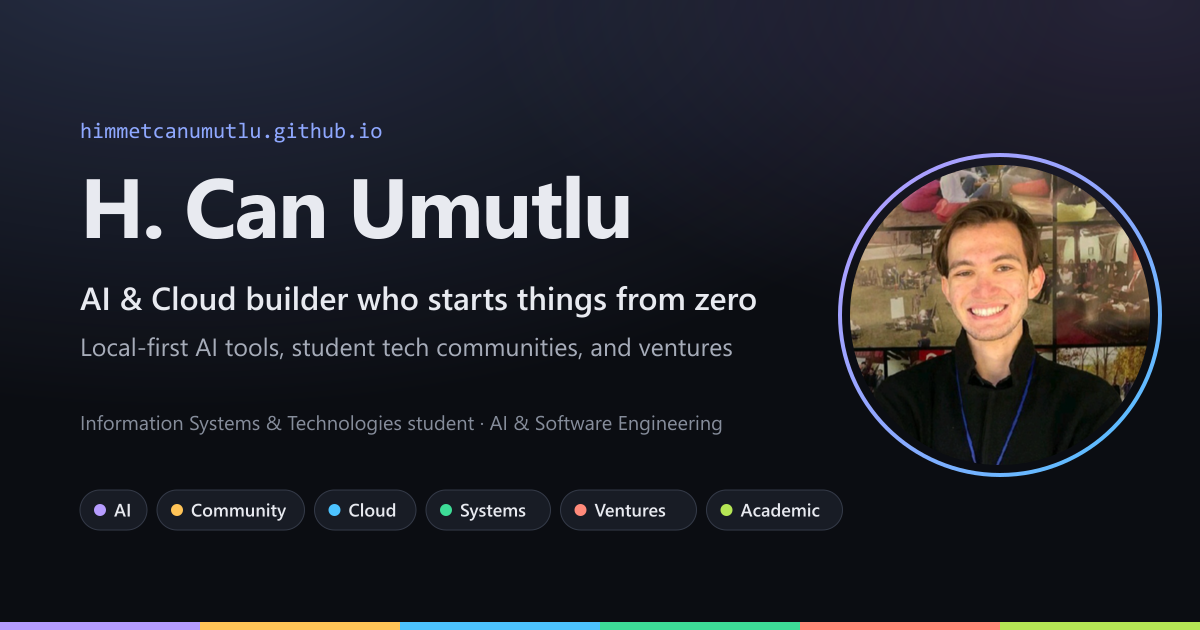
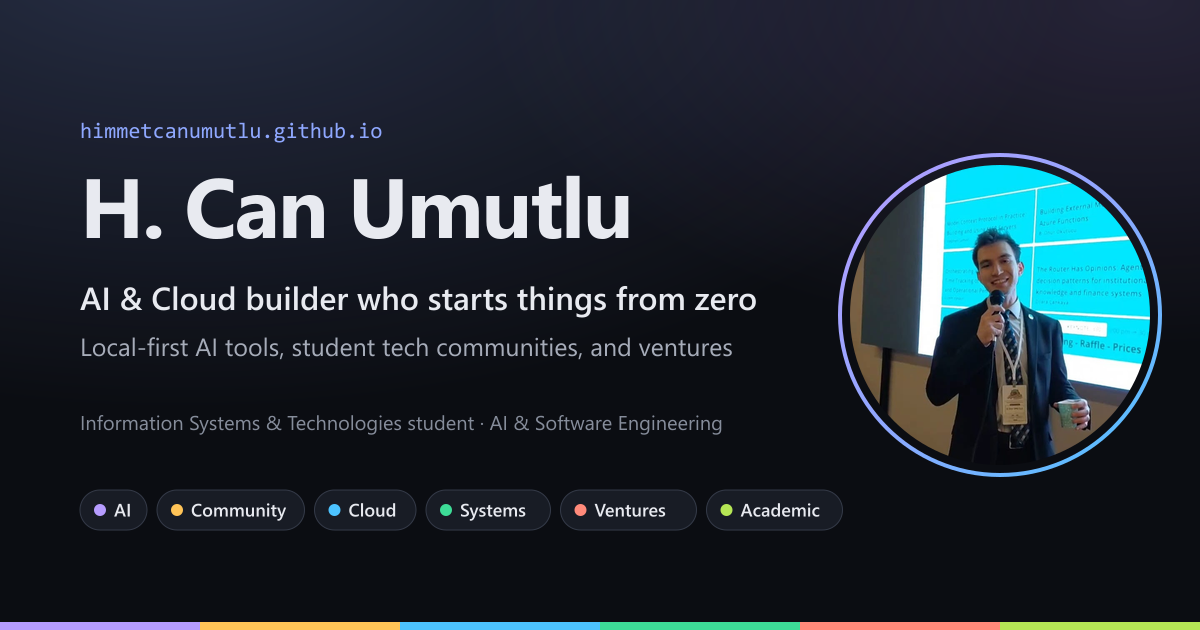
feat: add YouTube talks to Media and use the channel photo as headshot
- headshot, touch icon and OG card regenerated from the 720px YouTube
  channel photo
- Media lists both AWS Cloud talk videos with local thumbnails, lengths
  and a Turkish-language note; fetch-assets pulls the thumbnails
- videos are searchable in the command palette under Media
- hero gains GitHub, LinkedIn and YouTube profile links

Changed region(s): [[0.7092, 0.2413, 0.9558, 0.7238]]

diff --git a/scripts/fetch-assets.ts b/scripts/fetch-assets.ts
@@ -13,6 +13,7 @@
  *  - event covers: any photo dropped at assets-src/events/<event-id>.{jpg,jpeg,png,webp}
  *    is cropped to 3:2; portrait shots are letterboxed over a blurred copy of
  *    themselves instead of losing most of the frame (assets-src/ is git-ignored)
+ *  - video thumbnails: the YouTube thumbnail of every media item that declares one
  *
  * This is run by hand; nothing in CI calls it.
  */
@@ -23,6 +24,7 @@ import { fileURLToPath } from 'node:url'
 import sharp from 'sharp'
 import { domains } from '../src/data/domains'
 import { events } from '../src/data/events'
+import { media } from '../src/data/media'
 import { profile } from '../src/data/profile'
 import { SITE_URL } from '../src/data/site'
 
@@ -265,12 +267,48 @@ const writeEventCovers = async () => {
   }
 }
 
+// ── Video thumbnails ─────────────────────────────────────────────────
+const youtubeId = (href: string): string | null => {
+  const url = new URL(href)
+  if (url.hostname === 'youtu.be') return url.pathname.slice(1) || null
+  return url.searchParams.get('v')
+}
+
+const writeVideoThumbnails = async () => {
+  for (const item of media) {
+    if (!item.thumbnail) continue
+    const { src, width = 640, height = 360 } = item.thumbnail
+    if (!shouldWrite(src)) continue
+    const id = youtubeId(item.href)
+    if (!id) {
+      results.push({ path: src, status: 'missing', note: 'not a YouTube video link' })
+      continue
+    }
+    try {
+      let source: Buffer
+      try {
+        source = await download(`https://i.ytimg.com/vi/${id}/maxresdefault.jpg`)
+      } catch {
+        source = await download(`https://i.ytimg.com/vi/${id}/hqdefault.jpg`)
+      }
+      const image = await sharp(source)
+        .resize(width, height, { fit: 'cover' })
+        .jpeg({ quality: 80, mozjpeg: true, progressive: true })
+        .toBuffer()
+      await save(src, image)
+    } catch (error) {
+      results.push({ path: src, status: 'missing', note: (error as Error).message })
+    }
+  }
+}
+
 // ── Run ──────────────────────────────────────────────────────────────
 const avatar = await loadHeadshotSource()
 await writeHeadshots(avatar)
 await writeLogos()
 await writeOgImage(avatar)
 await writeEventCovers()
+await writeVideoThumbnails()
 
 if (!existsSync(out(profile.cv.href))) {
   results.push({ path: profile.cv.href, status: 'missing', note: 'add your CV manually' })

diff --git a/src/components/media/MediaWriting.tsx b/src/components/media/MediaWriting.tsx
@@ -11,7 +11,11 @@ const typeLabel: Record<MediaItem['type'], string> = {
   channel: 'Channel',
   writing: 'Writing',
   post: 'Post',
+  video: 'Video',
 }
+
+const metaLine = (item: MediaItem): string =>
+  `${typeLabel[item.type]} · ${item.outlet} · ${item.when}${item.lang === 'tr' ? ' · in Turkish' : ''}`
 
 const iconFor = (item: MediaItem): 'youtube' | 'linkedin' | 'external' =>
   item.outlet === 'YouTube' ? 'youtube' : item.outlet === 'LinkedIn' ? 'linkedin' : 'external'
@@ -27,9 +31,7 @@ export default function MediaWriting() {
               <article class="card card--interactive media-card" data-d={domainAttr(item.domains)} data-domain={item.domains[0]}>
                 <p class="media-card__meta">
                   <Icon name={iconFor(item)} />
-                  <span>
-                    {`${typeLabel[item.type]} · ${item.outlet} · ${item.when}`}
-                  </span>
+                  <span>{metaLine(item)}</span>
                 </p>
                 <h3 class="card__title">
                   <a class="stretched-link" href={item.href} target="_blank" rel="noopener noreferrer">
@@ -37,6 +39,20 @@ export default function MediaWriting() {
                   </a>
                 </h3>
                 <p class="card__body">{item.summary}</p>
+                {/* Rendered last so list bindings stay stable; CSS moves it to the top. */}
+                {item.thumbnail ? (
+                  <img
+                    class="media-card__thumb"
+                    src={item.thumbnail.src}
+                    alt={item.thumbnail.alt}
+                    width={item.thumbnail.width}
+                    height={item.thumbnail.height}
+                    loading="lazy"
+                    decoding="async"
+                  />
+                ) : (
+                  ''
+                )}
               </article>
             </li>
           ))}

diff --git a/src/data/media.ts b/src/data/media.ts
@@ -6,10 +6,46 @@ export const media: MediaItem[] = [
     type: 'channel',
     title: 'H. Can Umutlu on YouTube',
     outlet: 'YouTube',
-    summary: 'Videos on technology, software and what I am building.',
+    summary: 'Recorded talks on cloud computing and what I am building. “In Tech We Trust!”',
     href: 'https://www.youtube.com/@hcanumutlu',
     when: 'Ongoing',
-    domains: ['community'],
+    domains: ['community', 'cloud'],
+  },
+  {
+    id: 'yt-aws-cloud-1',
+    type: 'video',
+    title: 'AWS Cloud talk, part 1: hybrid cloud',
+    outlet: 'YouTube',
+    summary:
+      'Cloud fundamentals for students: private, public and hybrid cloud architectures and how they integrate, with e-commerce and Turkish Airlines examples.',
+    href: 'https://www.youtube.com/watch?v=WT8BuF04YHo',
+    when: 'Dec 2024 · 13 min',
+    domains: ['cloud', 'community'],
+    lang: 'tr',
+    thumbnail: {
+      src: '/assets/media/yt-aws-cloud-1.jpg',
+      alt: 'Presenting a slide on hybrid cloud structures and integration',
+      width: 640,
+      height: 360,
+    },
+  },
+  {
+    id: 'yt-aws-cloud-2',
+    type: 'video',
+    title: 'AWS Cloud talk, part 2: inside the AWS console',
+    outlet: 'YouTube',
+    summary:
+      'A live walkthrough of the AWS Management Console, comparing Amazon S3 storage classes from Standard to Glacier Deep Archive.',
+    href: 'https://www.youtube.com/watch?v=cY1KGaGL5yg',
+    when: 'Dec 2024 · 17 min',
+    domains: ['cloud', 'community'],
+    lang: 'tr',
+    thumbnail: {
+      src: '/assets/media/yt-aws-cloud-2.jpg',
+      alt: 'Walking through the Amazon S3 storage classes in the AWS console',
+      width: 640,
+      height: 360,
+    },
   },
   {
     id: 'siber-otag',

diff --git a/src/data/commands.ts b/src/data/commands.ts
@@ -1,4 +1,5 @@
 import { domains } from './domains'
+import { media } from './media'
 import { profile } from './profile'
 import { includedProjects } from './selectors'
 import { sections } from './site'
@@ -23,6 +24,17 @@ const projectCommands: Command[] = includedProjects.map(project => ({
   keywords: [project.title, project.slug, ...project.stack, ...(project.context ? [project.context] : [])],
   action: { type: 'project', slug: project.slug },
 }))
+
+const mediaCommands: Command[] = media
+  .filter(item => item.type === 'video')
+  .map(item => ({
+    id: `media:${item.id}`,
+    group: 'Media',
+    label: `Watch: ${item.title}`,
+    hint: item.summary,
+    keywords: [item.title, item.outlet, 'video', 'talk', 'youtube', ...item.domains],
+    action: { type: 'open', href: item.href },
+  }))
 
 const domainCommands: Command[] = domains.map(domain => ({
   id: `domain:${domain.id}`,
@@ -77,6 +89,7 @@ const linkCommands: Command[] = [profile.links.github, profile.links.linkedin, p
 export const commands: Command[] = [
   ...sectionCommands,
   ...projectCommands,
+  ...mediaCommands,
   ...domainCommands,
   ...actionCommands,
   ...linkCommands,

diff --git a/src/components/hero/Hero.tsx b/src/components/hero/Hero.tsx
@@ -5,6 +5,8 @@ import Tag from '../ui/Tag'
 import NowLine from './NowLine'
 import { isBrowser } from '../../lib/env'
 
+const socialLinks = [profile.links.github, profile.links.linkedin, profile.links.youtube]
+
 /**
  * Above the fold: who, what, proof of now, and the three primary actions.
  * Falls back to a monogram if the portrait hasn't been added yet.
@@ -69,6 +71,16 @@ export default class Hero extends Component {
                 Contact
               </a>
             </div>
+
+            <ul class="hero__social" role="list" aria-label="Profiles">
+              {socialLinks.map(link => (
+                <li key={link.kind}>
+                  <a class="icon-btn" href={link.href} target="_blank" rel="noopener noreferrer" aria-label={link.label}>
+                    <Icon name={link.kind as 'github' | 'linkedin' | 'youtube'} />
+                  </a>
+                </li>
+              ))}
+            </ul>
           </div>
 
           <div class="hero__aside">

diff --git a/src/data/types.ts b/src/data/types.ts
@@ -346,13 +346,17 @@ export interface Certification {
 
 export interface MediaItem {
   id: string
-  type: 'channel' | 'writing' | 'post'
+  type: 'channel' | 'writing' | 'post' | 'video'
   title: string
   outlet: string
   summary: string
   href: string
   when: string
   domains: DomainId[]
+  /** Spoken or written language when it isn't English. */
+  lang?: ContentLang
+  /** Local preview image, generated by `npm run fetch-assets`. */
+  thumbnail?: ImageAsset
 }
 
 // ── Command palette ──────────────────────────────────────────────────
@@ -368,7 +372,7 @@ export type CommandAction =
 
 export interface Command {
   id: string
-  group: 'Navigate' | 'Projects' | 'Filter' | 'Actions' | 'Links'
+  group: 'Navigate' | 'Projects' | 'Media' | 'Filter' | 'Actions' | 'Links'
   label: string
   hint?: string
   keywords: string[]

diff --git a/src/styles/components/education.css b/src/styles/components/education.css
@@ -291,6 +291,17 @@
   }
 
   /* ── Media ───────────────────────────────────────────────────────── */
+  .media-card__thumb {
+    order: -1;
+    display: block;
+    width: 100%;
+    height: auto;
+    aspect-ratio: 16 / 9;
+    object-fit: cover;
+    border-radius: var(--radius-md);
+    background: var(--surface-2);
+  }
+
   .media-card__meta {
     display: inline-flex;
     align-items: center;

diff --git a/src/styles/components/hero.css b/src/styles/components/hero.css
@@ -97,6 +97,11 @@
     margin-top: var(--space-3);
   }
 
+  .hero__social {
+    display: flex;
+    gap: var(--space-2);
+  }
+
   /* ── Portrait + Now panel ────────────────────────────────────────── */
   .hero__aside {
     display: grid;

diff --git a/scripts/validate-content.ts b/scripts/validate-content.ts
@@ -198,6 +198,7 @@ unique('media', media.map(m => m.id))
 for (const item of media) {
   checkDomains(`media "${item.id}"`, item.domains)
   checkUrl(`media "${item.id}"`, item.href)
+  if (item.thumbnail) asset(item.thumbnail.src)
 }
 
 unique('commands', commands.map(c => c.id))

diff --git a/README.md b/README.md
@@ -30,7 +30,7 @@ npm run dev
 | `npm run typecheck` | Type-check the project |
 | `npm run validate` | Check the content layer for broken references and missing assets |
 | `npm run fetch:github` | Refresh repository stars/forks in `src/data/generated/github.json` |
-| `npm run fetch-assets` | One-time fetch of the headshot, touch icon, issuer logos and OG card into `public/assets/`; crops event photos from `assets-src/events/` (`-- --force` regenerates) |
+| `npm run fetch-assets` | One-time fetch of the headshot, touch icon, issuer logos, OG card and video thumbnails into `public/assets/`; crops event photos from `assets-src/events/` (`-- --force` regenerates) |
 | `npm run check` | Type check + content validation |
 
 ## Project structure
